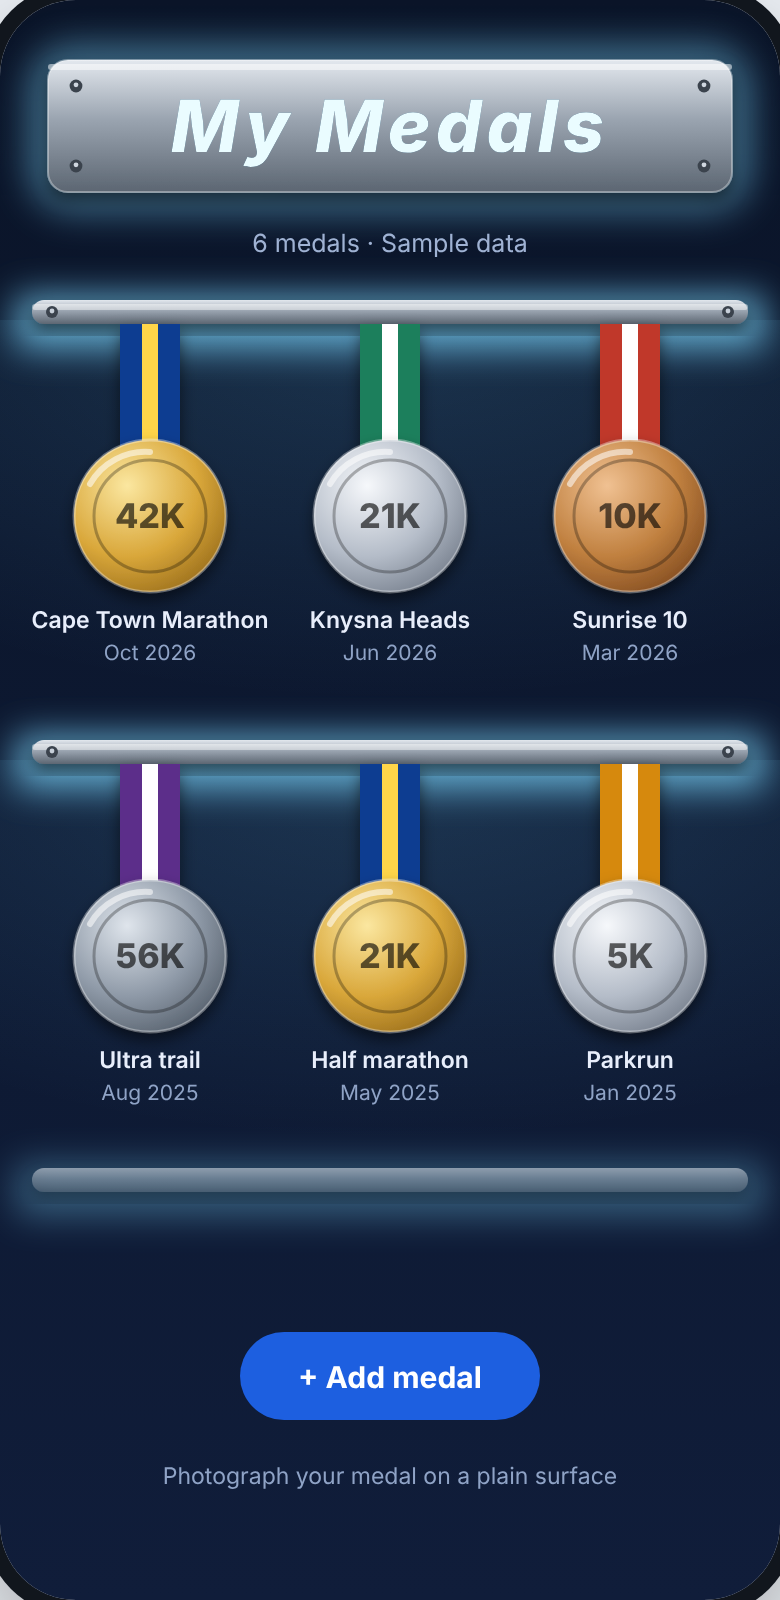
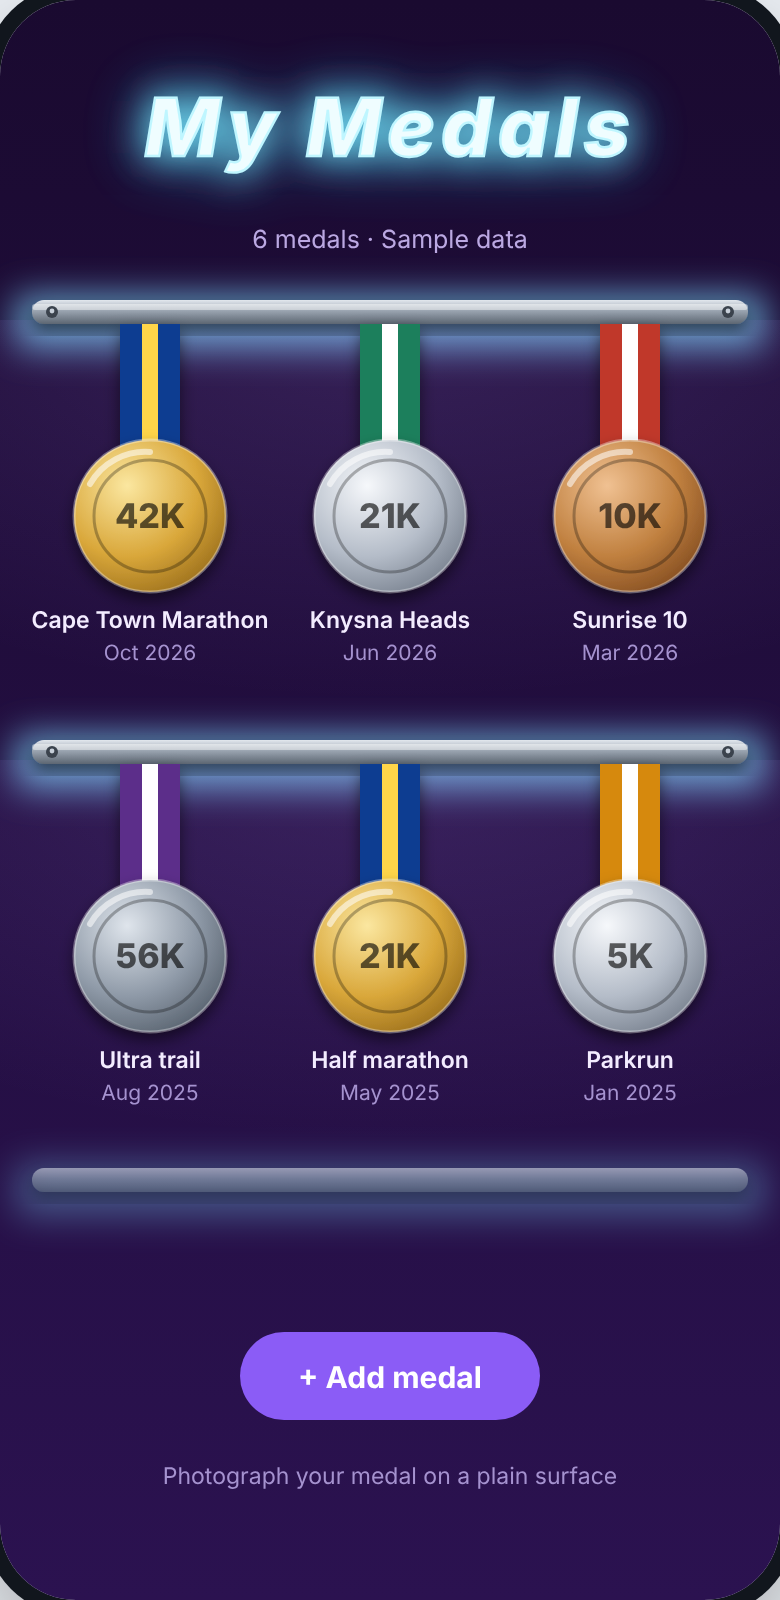
Medal wall mockup: LED letter header on dark purple wall
Claude-Session: https://claude.ai/code/session_01PDyqJjHb4fFA6qNThxSnif

diff --git a/docs/medal_wall_spec.md b/docs/medal_wall_spec.md
@@ -1,7 +1,7 @@
 # Medal Wall: spec (draft, 13 Nov 2026)
 
 ## Summary
-A separate menu option opens the "My Medals" wall: a dark wall with titanium hanger bars lit from behind by an LED glow. The runner photographs a real medal, the app crops it and hangs it on the wall. Tapping a medal opens the linked race card. The wall delivers the brand line "the medals you've earned" and gives runners something to show and share.
+A separate menu option opens the "My Medals" wall: a dark purple wall with titanium hanger bars lit from behind by an LED glow. The runner photographs a real medal, the app crops it and hangs it on the wall. Tapping a medal opens the linked race card. The wall delivers the brand line "the medals you've earned" and gives runners something to show and share.
 
 ## User flow
 1. Menu > Medal wall. Empty state shows an empty bar and an "Add medal" button.
@@ -12,7 +12,7 @@ A separate menu option opens the "My Medals" wall: a dark wall with titanium han
 6. Tap a medal: race card, with options to replace the photo or remove the medal.
 
 ## Screens
-- **Header plate:** a laser-cut titanium plate across the top with "My Medals" cut out in bold italic letters and an LED light shining through the cut-out and around the plate edge. It is drawn in code (mask over a lit layer), so it stays sharp and costs no image download. See `docs/medal_wall_mockup.png`.
+- **Header:** "My Medals" in bold italic LED letters glowing directly on the wall, with a soft cyan halo. Drawn in code (stacked blurred and sharp text layers), so it stays sharp and costs no image download. See `docs/medal_wall_mockup.png`.
 - **Wall:** scrolling column of hanger bars, 3 medals per bar, new bar after every third medal. Titanium bar and screws drawn in code; LED glow is a blurred light behind each bar plus a faint wash on the wall. Ribbon colour is chosen by the user from a small palette; metal (gold, silver, bronze, titanium) follows the user's pick.
 - **Add medal:** camera, crop, link-to-race, ribbon colour.
 - **Medal detail:** large medal, race card link, replace and remove.
